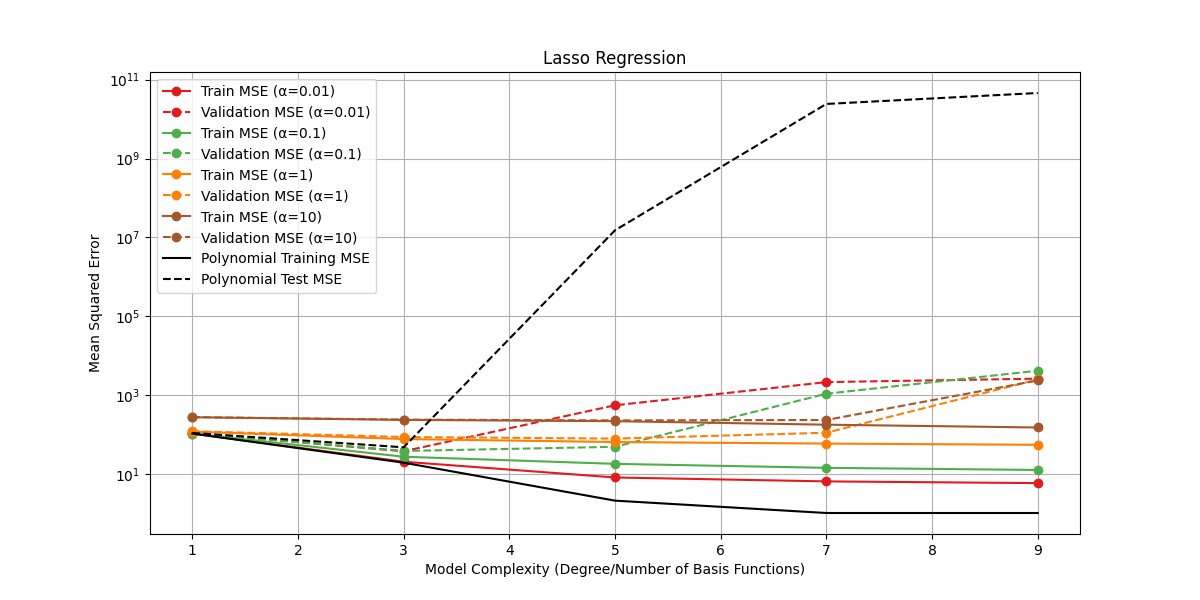
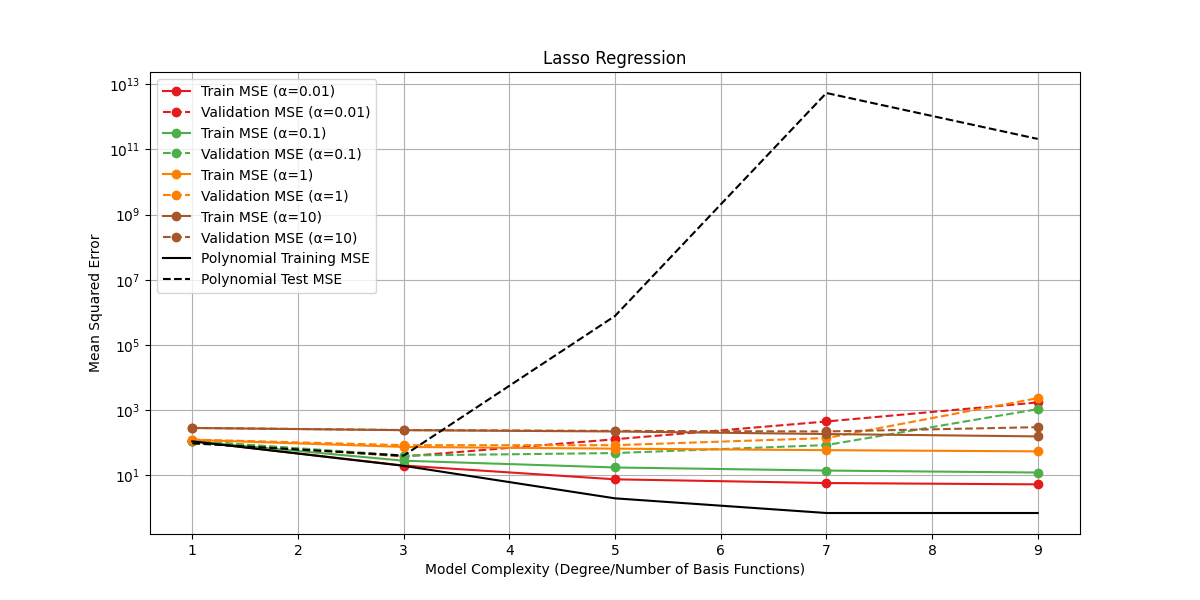
assignment 1

diff --git a/assignment 1/Lasso_poly.py b/assignment 1/Lasso_poly.py
@@ -25,7 +25,7 @@ scaler = StandardScaler()
 X_scaled = scaler.fit_transform(X) # don't scailing Y value because it is not a feature
 
 # 1-4. Split the dataset into training (80%) and testing (20%) sets
-X_train, X_test, y_train, y_test = train_test_split(X_scaled, y, test_size=0.2)
+X_train, X_test, y_train, y_test = train_test_split(X_scaled, y, test_size=0.2, random_state=42)
 
 def fit_polynomial(x,y,degree): # fit polynomial model
     poly=PolynomialFeatures(degree=degree)
@@ -156,3 +156,16 @@ print(f"Validation MSE: {best_lasso_mse:.4f}")
 print("\nPolynomial Regression (No regularization):")
 print(f"Degree: {best_poly_degree}")
 print(f"Test MSE: {best_poly_mse:.4f}")
+
+'''
+=== Best Model Parameters ===
+
+Lasso Regression:
+Alpha: 0.01
+Degree: 3
+Validation MSE: 37.8192
+
+Polynomial Regression (No regularization):
+Degree: 3
+Test MSE: 47.6734
+'''

diff --git a/assignment 1/Ridge_poly.py b/assignment 1/Ridge_poly.py
@@ -26,7 +26,7 @@ scaler = StandardScaler()
 X_scaled = scaler.fit_transform(X) # don't scailing Y value because it is not a feature
 
 # 1-4. Split the dataset into training (80%) and testing (20%) sets
-X_train, X_test, y_train, y_test = train_test_split(X_scaled, y, test_size=0.2)
+X_train, X_test, y_train, y_test = train_test_split(X_scaled, y, test_size=0.2, random_state=42)
 
 def fit_polynomial(x,y,degree): # fit polynomial model
     poly=PolynomialFeatures(degree=degree)
@@ -158,3 +158,17 @@ print(f"Validation MSE: {best_ridge_mse:.4f}")
 print("\nPolynomial Regression (No regularization):")
 print(f"Degree: {best_poly_degree}")
 print(f"Test MSE: {best_poly_mse:.4f}")
+
+
+'''
+=== Best Model Parameters ===
+
+Ridge Regression:
+Alpha: 1
+Degree: 3
+Validation MSE: 42.7346
+
+Polynomial Regression (No regularization):
+Degree: 3
+Test MSE: 67.8808
+'''
